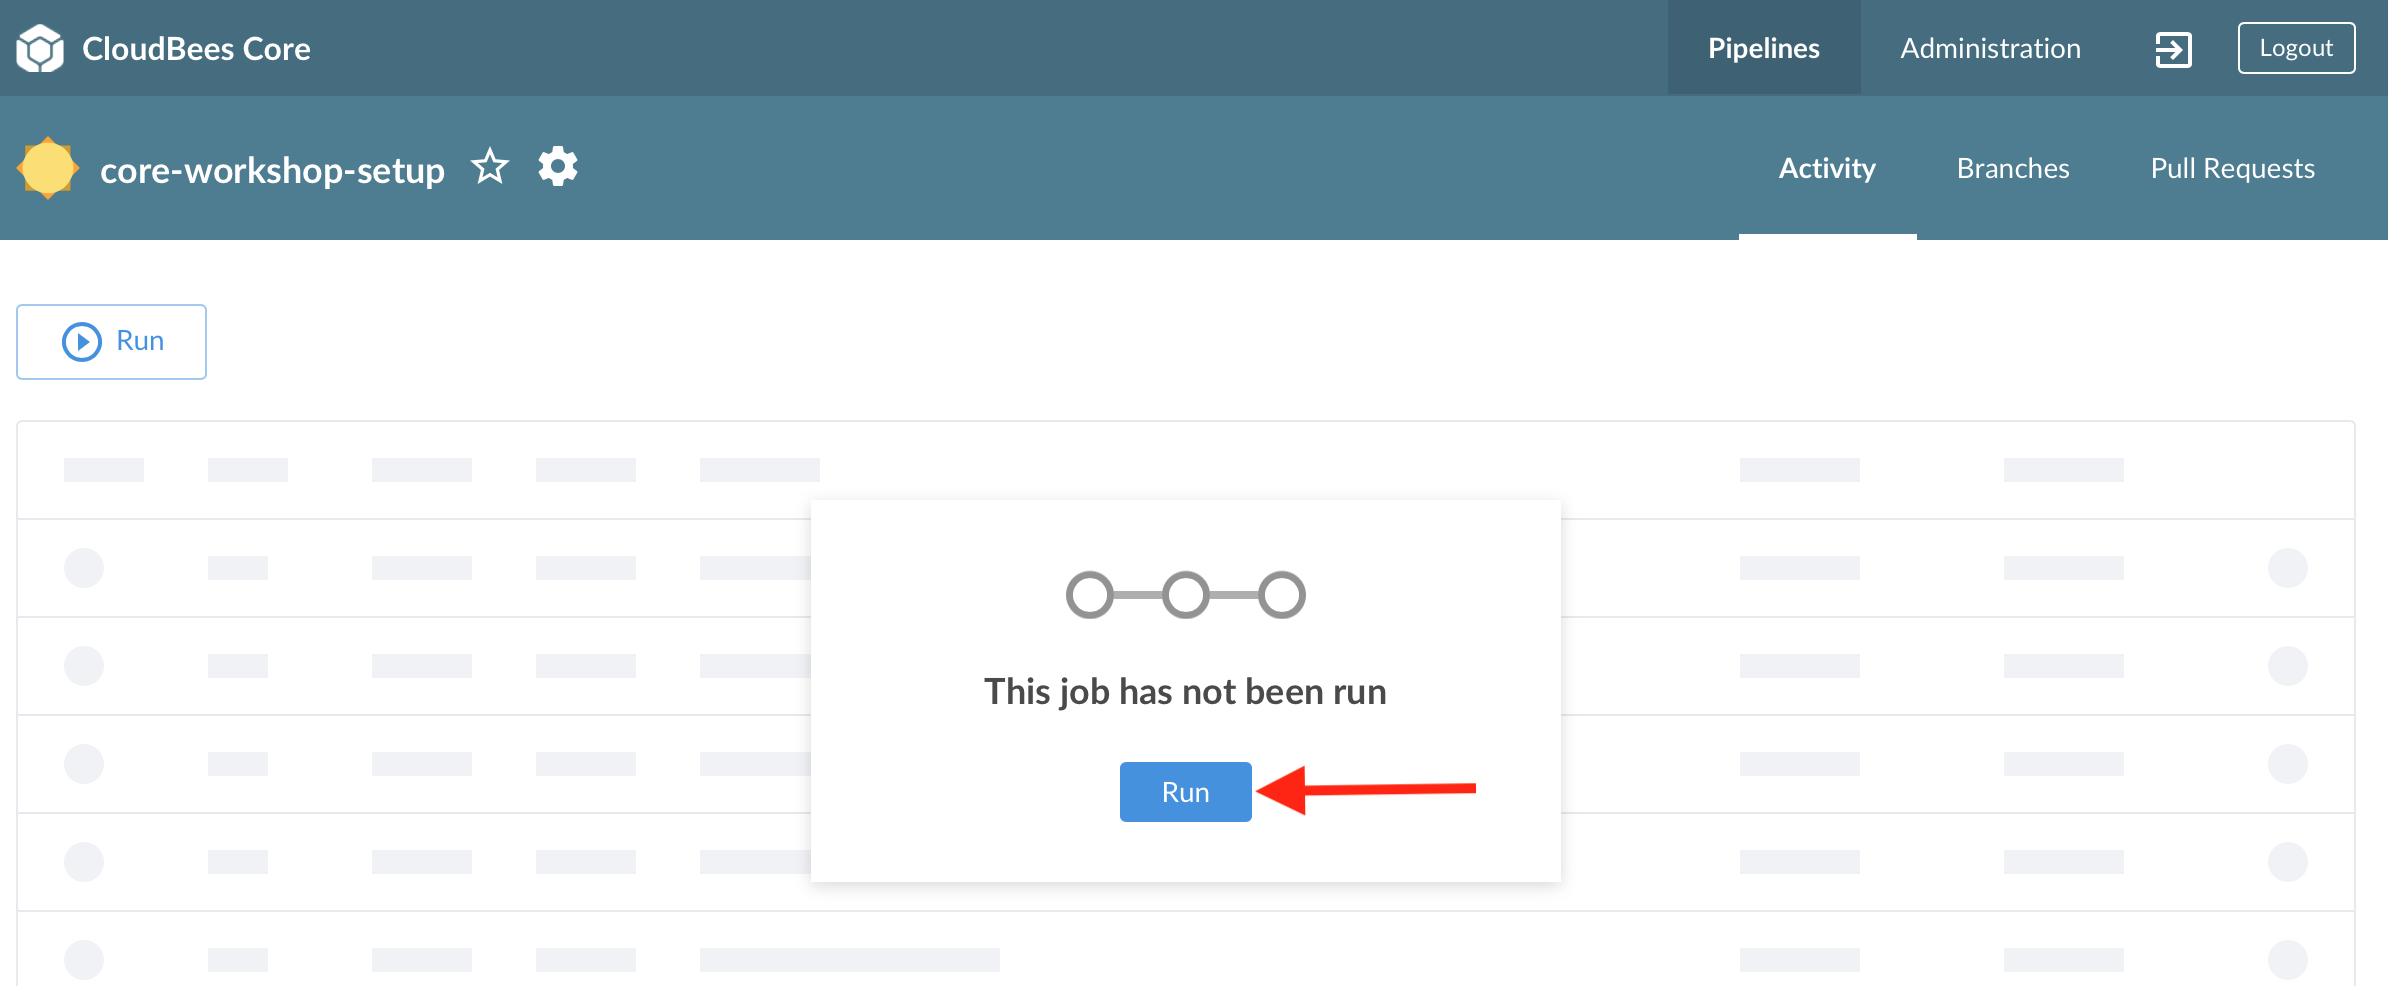
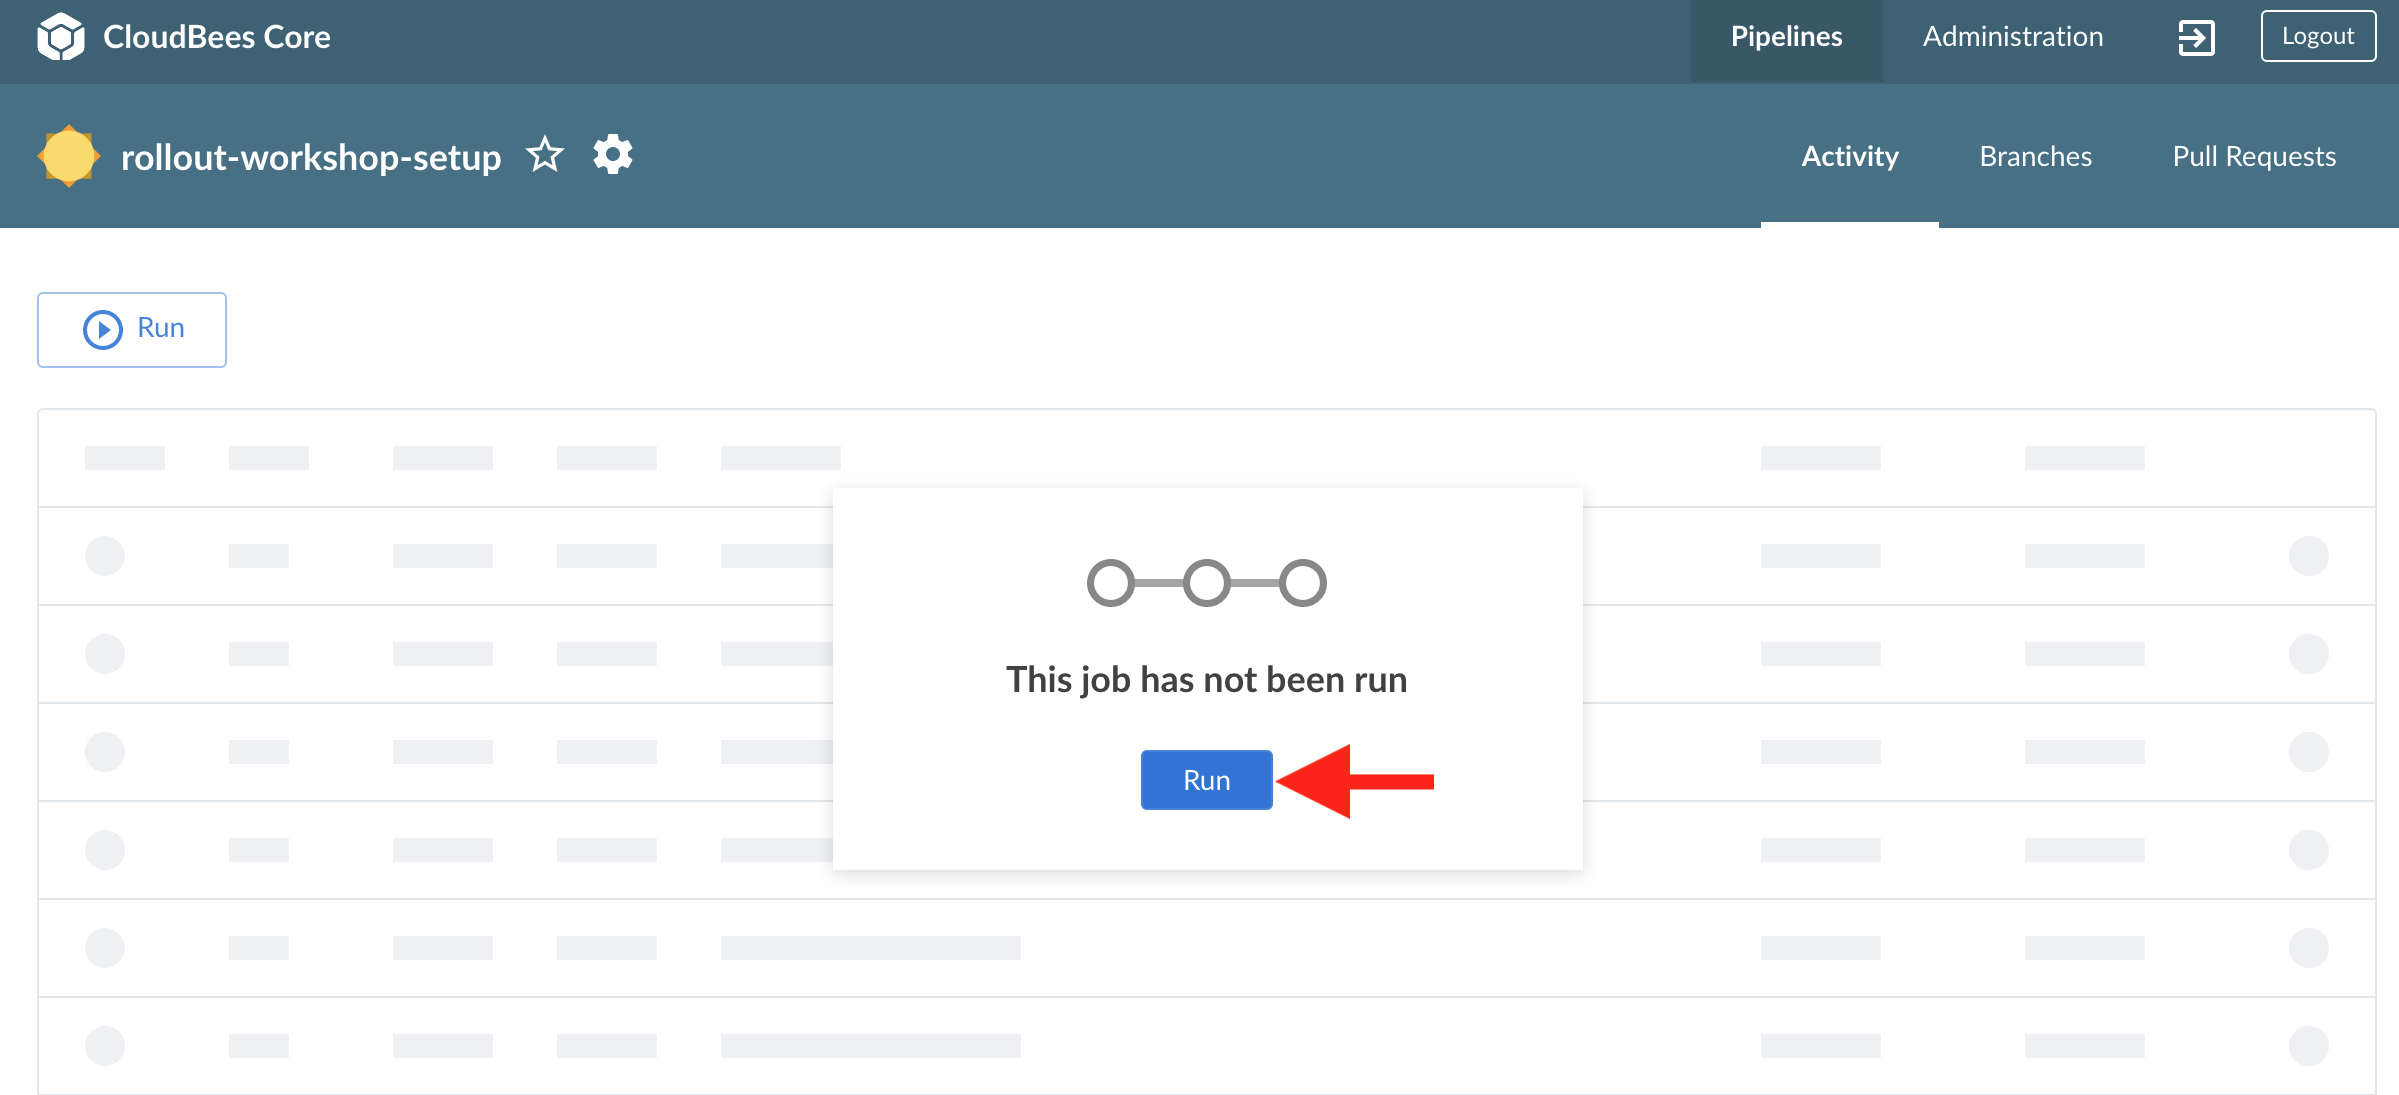
Changed Rollout preReq pictures

diff --git a/labs/rolloutPreReqs/rolloutPreReqs.md b/labs/rolloutPreReqs/rolloutPreReqs.md
@@ -58,7 +58,11 @@ You should see the following Blue Ocean **Pipelines** screen with a Pipeline nam
    4. The Kubernetes Namespace where your Team Master has been deployed - **only change the default value if you are instructed to do so.**
 4. Once you have provided the above required input parameters click the **Run** button at the bottom of the parameters input form.
 5. Blue Ocean will automatically switch to the Pipeline **Activity** screen, click anywhere on the Pipeline run row to see the Pipeline run and view the logs. But make sure you don't click on the **Stop** button to the right of the red box in the screenshot below.<p><img src="images/workshop-setup-activity.png" width=600/>
-6. Once the **rollout-workshop-setup** Pipeline job completes successfully your Team Master will be restarted so you should see a **Connect lost: waiting** alert in the bottom right of your Blue Ocean screen. <p><img src="images/workshop-setup-connection-lost.png" width=600/> <p>You may also experience a **503 Service Temporarily Unavailable** screen - that is because the actual Kubernetes Pod that your Team Master is running in is being re-created. Your Team Master will return in a few minutes.
+6. **Please let me know if this happens for you** Once the **rollout-workshop-setup** Pipeline job is completed, your Team Master will be restarted so you should see a **Connect lost: waiting** alert in the bottom right of your Blue Ocean screen. <p><img src="images/workshop-setup-connection-lost.png" width=600/> <p>You may also experience a **503 Service Temporarily Unavailable** screen - that is because the actual Kubernetes Pod that your Team Master is running in is being re-created. Your Team Master will return in a few minutes.
+7. To confirm that the success of the pipeline job, navigate to your Github Organization that you created for this workshop, and refresh the page. You should see the following repositories that were copied during the pipeline job:
+* pipeline-template-catalog
+* pipeline-library
+* microblog-frontend
 
 **For instructor led workshops please return to the [workshop slides](https://cloudbees-days.github.io/core-rollout-flow-workshop/rollout/#1).**
 

diff --git a/labs/rolloutSetup/rolloutSetup.md b/labs/rolloutSetup/rolloutSetup.md
@@ -11,6 +11,13 @@ In this lab, you will set up a CloudBees Rollout account and use it to manage fe
 4. Click **Add New Environment** and name it Development.
 5. Click to copy your unique `<ROLLOUT_ENV_KEY>` associated with the Development environment and paste it in a notepad for future reference.
 
+
+### Environment Vairable
+1. In Github, navigate to the microblog-frontend repository previously forked to the organization.
+2. Click `Branch: development`.
+3. At the root of the directory, click the `.env.development` file. Click the pencil icon to edit file.
+4.  
+
 <p><img src="images/RolloutEnvKey.png" />
 
 ### Create Rollout Feature Flags
@@ -21,11 +28,11 @@ In this lab, you will set up a CloudBees Rollout account and use it to manage fe
 
 <p><img src="images/initRolloutBranch.gif" />
 
-4. Ensure you are within the initRollout branch, then click the `src` folder. On the resulting page, click the **Create new file** button.
+4. Ensure you are within the `development` branch, then navigate to `src/utils/` directory by clicking `src` then `utils`.
 
 <p><img src="images/srcCreateNewFile.png" />
 
-5. In the textbox next to `microblog-frontend/src/`, type: `utils/flag.js` and press return (on the keyboard).
+5. The `flags.js` file defines the feature flags that our application will use and then registers those flags for remote configuration via a `setup` call to the dashboard.
 
 <p><img src="images/utilsFlagJS.gif" />
 
